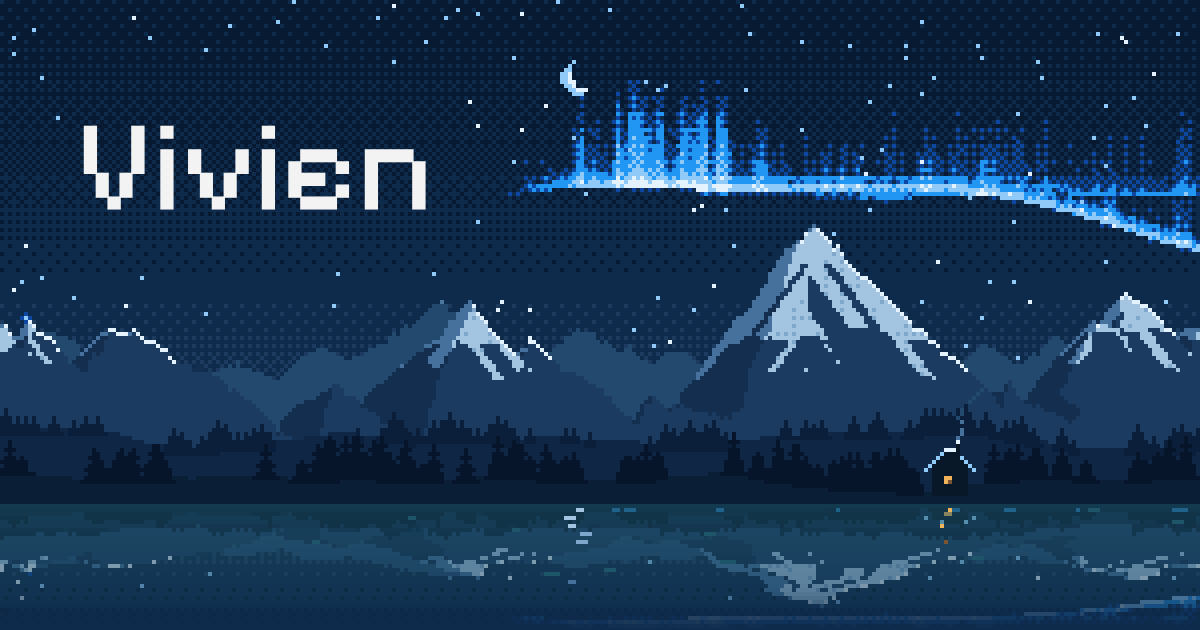
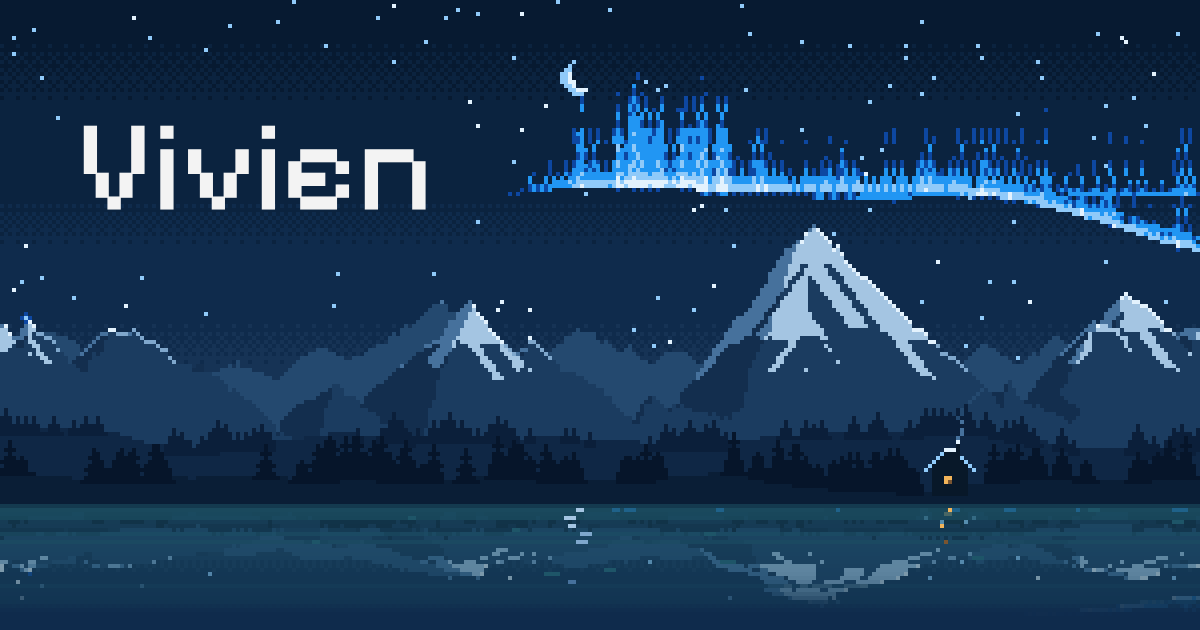
Clean the dithering: flat sky bands, clean snow, dashed aurora rays
Following pixel-art guidance that dither reads as noise when spread
over a whole surface and leaves orphan pixels:
- Sky: five flat bands (two new in-between blends) joined by narrow
  dithered seams, placed so the name sits on flat colour.
- Horn: lit snow is one clean plane, no dotted texture; lower ridges
  carry a mid-snow edge instead of a frost wire.
- Aurora: faint light breaks into short vertical dashes along the
  rays, never lone dots.
- Water: thin calm rows drift down through the mirror, and the
  reflection is gone before the hero's last rows, so no smeared strip.
Regenerated og.png; DESIGN.md's sky rule updated.

Claude-Session: https://claude.ai/code/session_01W1WJo8FCiKhhtBsWrrJKbP

diff --git a/scene.js b/scene.js
@@ -116,7 +116,7 @@
     skyRows = new Array(horizon);
     for (let y = 0; y < horizon; y++) {
       const v = skyV(y), row = new Uint32Array(4);
-      for (let x = 0; x < 4; x++) row[x] = pack(ramp(SKY, v, x, y));
+      for (let x = 0; x < 4; x++) row[x] = pack(skyStep(v, x, y));
       skyRows[y] = row;
     }
     aurCols = { env: [new Float32Array(W), new Float32Array(W)], bottom: [new Float32Array(W), new Float32Array(W)], len: [new Float32Array(W), new Float32Array(W)], rays: [new Float32Array(W), new Float32Array(W)] };
@@ -210,8 +210,9 @@
           const snowy = (y < sl && !rib) || couloir || (y - far.top[x] < 1 && y < sl + hz * 0.05);
           if (snowy) {
             if (!lit) c = C.snowShade;
-            else if (y - far.top[x] < 1) c = C.frost;
-            else c = dither(x, y) > 0.8 && nSnow(x * 0.3 + y * 0.2) > 0.5 ? C.snowMid : C.snowLit;
+            // a frost crest only above the snowline; lower ridges carry a quieter edge
+            else if (y - far.top[x] < 1) c = y < sl ? C.frost : C.snowMid;
+            else c = C.snowLit; // lit snow is one clean plane: no dotted texture
           } else c = lit ? C.farRock : C.farShade;
         } else if (y >= haze.top[x]) {
           c = y < hz * 0.6 && y - haze.top[x] < 3 && dither(x, y) > 0.3 ? C.hazeSnow : C.haze;
@@ -300,7 +301,10 @@
 
   // ---------------------------------------------------------------- sky
 
-  const SKY = [C.space, C.night, C.ridge];
+  // five flat steps of night, each pair of neighbours blended only in a narrow dithered seam
+  const mid = (a, b) => a.map((v, i) => Math.round((v + b[i]) / 2));
+  const SKY = [C.space, mid(C.space, C.night), C.night, mid(C.night, C.ridge), C.ridge];
+  const skyStep = (v, x, y) => SKY[Math.max(0, Math.min(4, Math.floor(v * 4 + 0.5 + (dither(x, y) - 0.5) * 0.4)))];
   const AUR = [C.abyss, C.glacier, C.ice, C.frost];
 
   function ramp(steps, v, x, y) {
@@ -367,7 +371,8 @@
         const i = y * W + x;
         if (base[i]) { buf[i] = base[i]; continue; }
         const a = inAur ? aurora(x, y) : 0;
-        buf[i] = a > 0.05 + dither(x + 1, y) * 0.22 ? pack(ramp(AUR, (a - 0.05) / 0.85, x, y)) : sky[x & 3];
+        // faint light breaks into short vertical dashes along the rays, never lone dots
+        buf[i] = a > 0.05 + dither(x + 1, y >> 2) * 0.22 ? pack(ramp(AUR, (a - 0.05) / 0.85, x, y >> 1)) : sky[x & 3];
       }
     }
     for (const s of stars) {
@@ -391,7 +396,9 @@
       const wob = Math.round(Math.sin((y - horizon) * 0.9 + t * 1.8) * (0.6 + d * 2.2));
       // a shallow fjord (wide screens) folds the mirror tighter so the peaks still reach it
       const sy = Math.max(0, horizon - 1 - Math.round((y - horizon) * mirror));
-      const fade = horizon < H * 0.7 ? 0.32 * Math.pow(1 - d, 1.1) : 0.5 * (1 - smooth(0.6, 1, d));
+      // thin calm-water breaks drift down through the mirror: rows where the reflection gives way to the water
+      const brk = nRay((y - horizon) * 0.8 - t * 0.6 + 300) > 0.7 ? 0.4 : 1;
+      const fade = brk * (horizon < H * 0.7 ? 0.32 * Math.pow(1 - d, 1.1) : 0.5 * (1 - smooth(0.5, 0.88, d)));
       const tint = Math.pow(Math.max(0, 1 - d / 0.82), 0.6);
       const f1 = 1 - fade;
       const wr = (C.deep[0] + (C.fjord[0] - C.deep[0]) * tint) * f1;

diff --git a/index.html b/index.html
@@ -12,7 +12,7 @@
   <meta property="og:site_name" content="Vivien">
   <meta property="og:description" content="Mechanical engineer, formerly a musician and programmer.">
   <meta property="og:url" content="https://meowzerskittycat.github.io/">
-  <meta property="og:image" content="https://meowzerskittycat.github.io/og.png?v=2985de17">
+  <meta property="og:image" content="https://meowzerskittycat.github.io/og.png?v=b351ff1f">
   <meta property="og:image:type" content="image/png">
   <meta property="og:image:width" content="1200">
   <meta property="og:image:height" content="630">

diff --git a/DESIGN.md b/DESIGN.md
@@ -186,7 +186,7 @@ Flat. Nothing on the page is lifted, layered, or shadowed. Depth is atmospheric 
 ### Named Rules
 **The Depth Is Distance Rule.** Separation comes from atmospheric value steps in the scene and from space on the page, never from drop shadows, overlays, or raised surfaces.
 
-**The Dithered Sky Rule.** Sky, aurora, and haze tones change only through a 4x4 ordered (Bayer) dither between palette steps, at whole art pixels; never a smooth CSS or canvas gradient. The water is the one exception: its mirror blends the reflection into the fjord tint row by row, still on whole art pixels, and its last fifth dithers out into the night field.
+**The Dithered Sky Rule.** Sky, aurora, and haze tones change only in flat steps joined by a narrow 4x4 ordered (Bayer) dither seam, at whole art pixels; never a smooth CSS or canvas gradient, and never dither spread across a whole field as texture. The sky is five flat bands (space, two in-between blends, night, ridge) whose seams fall clear of the name; the aurora's faint light breaks into short vertical dashes along its rays, never lone dots; lit snow is one clean plane. The water is the one exception: its mirror blends the reflection into the fjord tint row by row, still on whole art pixels, broken by thin calm rows that drift down through it, and fades out into the night field.
 
 ## Shapes
 
@@ -237,7 +237,7 @@ The page has no buttons, inputs, navigation, or cards, by product decision (no l
 ### Do:
 - **Do** keep the page field night and every surface flat; the canvases are the only images.
 - **Do** draw any new pixel art on the same whole-number art-pixel grid (3 to 6 screen px) with `image-rendering: pixelated`, and size small text-layer marks in multiples of `--ui-px` (the scene pixel, capped at 4px).
-- **Do** step sky, aurora, and haze tones with ordered dither between palette colors.
+- **Do** step sky, aurora, and haze tones in flat bands, with ordered dither only in the narrow seam between two of them.
 - **Do** set every text role in Pixelify Sans 400 and build hierarchy by size, using snow for primary text and ink-soft for secondary.
 - **Do** keep layout left-aligned inside the fluid gutter, with generous viewport-scaled vertical space; add new facts as ledger rows on the shared label column.
 - **Do** keep motion slow and stepped (10fps for the scene, `steps()` timing for CSS), pause it offscreen, and hold it still for reduced-motion users.
@@ -247,7 +247,7 @@ The page has no buttons, inputs, navigation, or cards, by product decision (no l
 - **Don't** use lamplight amber or ember anywhere beyond the cabin window and its reflection.
 - **Don't** use the ice-blue set for words, labels, or surfaces; in the text layer it is only for small pixel marks.
 - **Don't** round corners, add drop shadows, or put content in cards, panels, or bordered boxes.
-- **Don't** use smooth gradients for sky, aurora, or haze tones.
+- **Don't** use smooth gradients for sky, aurora, or haze tones, or spread dither over a whole surface as texture; it reads as noise and leaves orphan pixels.
 - **Don't** draw rules with `border` or the browser's round dotted style.
 - **Don't** add bold weights, italics, or a second typeface, or use uppercase tracking anywhere but the ledger label.
 - **Don't** center the name over the scene or place it on a scrim; it sits on the sky (or, on portrait screens, on the water).
